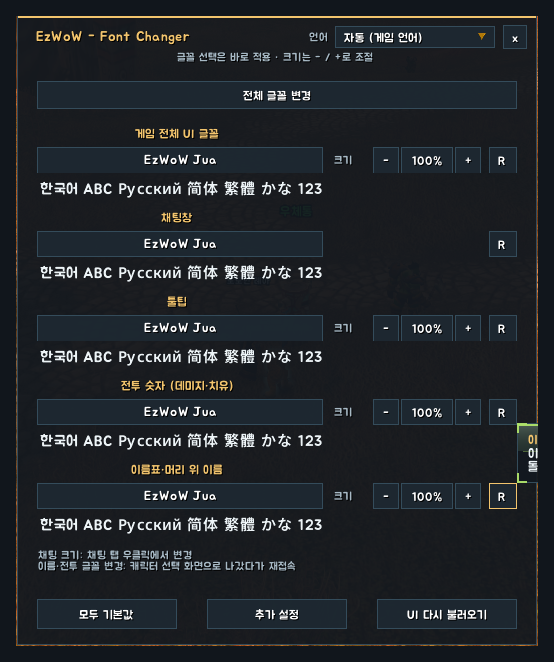
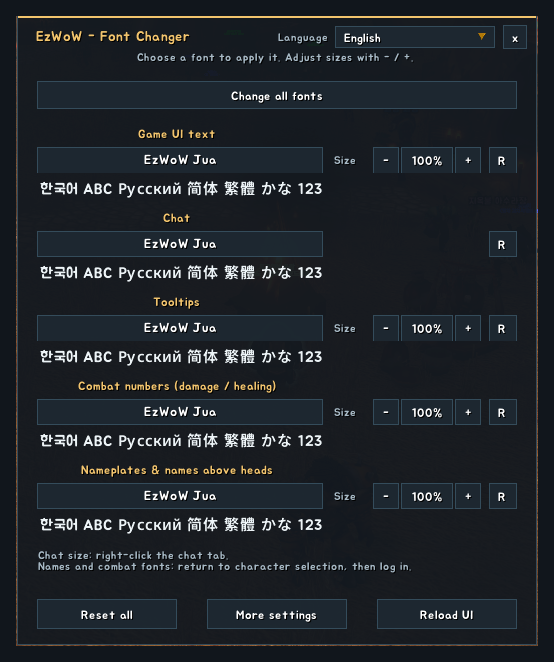
영어 설명용 게임 화면 추가

diff --git a/README.md b/README.md
@@ -135,7 +135,7 @@ Changes the font and size of five parts of the game separately: the game UI, cha
 
 ![Settings window](docs/images/ui_en.png)
 
-> In-game screenshots (WoW Forever, Korean client). Character and player names and chat text are blurred.
+> In-game screenshots with the addon set to English. The game client is Korean, so game text such as zone, item and spell names stays Korean. Character and player names and chat text are blurred.
 
 **Settings window** (`/ezfont`, also from the game's *Settings → AddOns → EzWoW - Font Changer* page and the minimap addon menu):
 

diff --git a/docs/curseforge_description.md b/docs/curseforge_description.md
@@ -11,7 +11,7 @@ Change the font and size of five parts of WoW Forever separately: the game UI, c
 
 ![Settings window](https://raw.githubusercontent.com/qqhrqqhr2/EzWoW-FontChanger/master/docs/images/ui_en.png)
 
-*In-game screenshots (WoW Forever, Korean client). Character and player names and chat text are blurred.*
+*In-game screenshots with the addon set to English. The game client is Korean, so game text such as zone, item and spell names stays Korean. Character and player names and chat text are blurred.*
 
 ## Features
 
